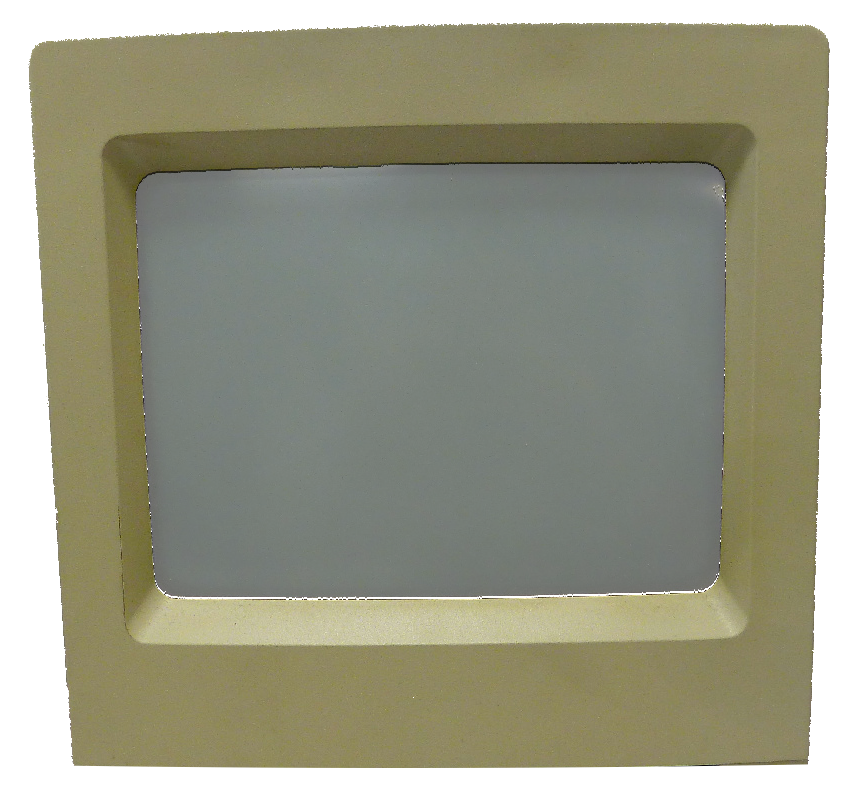
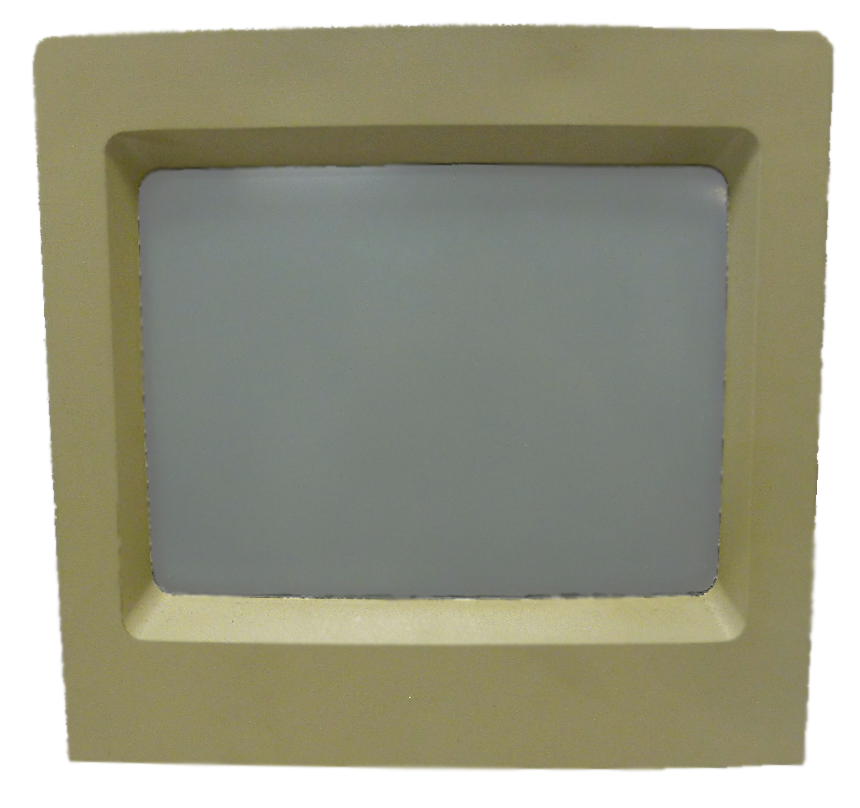
Fixed Formatting

diff --git a/index.html b/index.html
@@ -9,8 +9,7 @@
 <link href="https://fonts.googleapis.com/css?family=VT323" rel="stylesheet">
 <body>
     <div id="mainDiv" class="w3-center">
-        <img src="images/CRTMonitor.png">
-        <div id="colorBlock"></div>
+        <img src="images/CRTMonitor.png" alt="CRT Monitor Boarder">
         <div id="divTwo" class="w3-container w3-center">
             <p><b>At vero eos et accusamus et iusto odio dignissimos ducimus qui blanditiis praesentium voluptatum deleniti atque corrupti quos dolores et quas molestias excepturi sint occaecati cupiditate non provident, similique sunt in culpa qui officia deserunt mollitia animi, id est laborum et dolorum fuga. Et harum quidem rerum facilis est et expedita distinctio. Nam libero tempore, cum soluta nobis est eligendi optio cumque nihil impedit quo minus id quod maxime placeat facere possimus, omnis voluptas assumenda est, omnis dolor repellendus. Temporibus autem quibusdam et aut officiis debitis aut rerum necessitatibus saepe eveniet ut et voluptates repudiandae sint et molestiae non recusandae. Itaque earum rerum hic tenetur a sapiente delectus, ut aut reiciendis voluptatibus maiores alias consequatur aut perferendis doloribus asperiores repellat.hat is Lorem Ipsum?
 Lorem Ipsum is simply dummy text of the printing and typesetting industry. Lorem Ipsum has been the industry's standard dummy text ever since the 1500s, when an unknown printer took a galley of type and scrambled it to make a type specimen book. It has survived not only five centuries, but also the leap into electronic typesetting, remaining essentially unchanged. It was popularised in the 1960s with the release of Letraset sheets containing Lorem Ipsum passages, and more recently with desktop publishing software like Aldus PageMaker including versions of Lorem Ipsum.

diff --git a/style.css b/style.css
@@ -28,6 +28,7 @@ body, html {
     top: 21.5%;
     left: 32%;
     background: none;
+    color: lawngreen;
     overflow:scroll; 
     margin: auto;
     height:425px;
@@ -43,14 +44,4 @@ body, html {
     background: transparent;
 }
 
-#colorBlock{
-    position: absolute;
-    top: 19%;
-    left: 30%;
-    background-color:white;
-    overflow:scroll; 
-    margin: auto;
-    height:600px;
-    width: 650px;
-    z-index:-1;
-}
+
